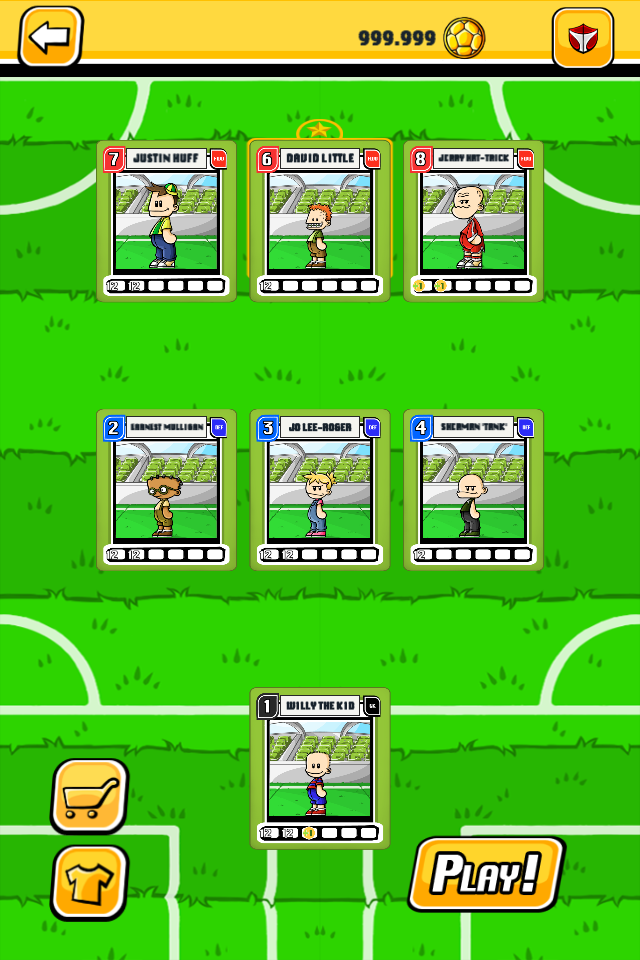
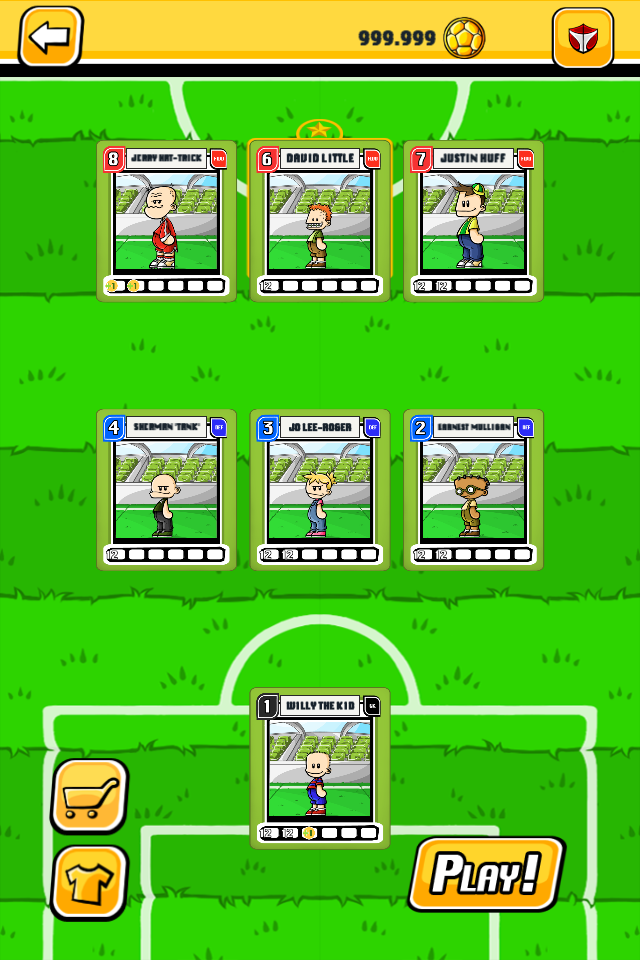
fix(details): perfect center circle pitch mirroring, authentic 8-6-7/4-3-2 formation slots, authentic column-by-column locked/hireable roster grid, and clean duel totals

diff --git a/Assets/Scripts/DiceSoccerBootstrap.cs b/Assets/Scripts/DiceSoccerBootstrap.cs
@@ -115,10 +115,6 @@ namespace DiceSoccer
             CreateCanvas();
             ApplySafeArea();
             LoadCareerProgress();
-            if (PlayerPrefs.GetInt("diceSoccer.allUnlocked", 0) == 0)
-            {
-                UnlockAllContent(false);
-            }
             ShowHome();
         }
 
@@ -1001,6 +997,13 @@ namespace DiceSoccer
             boneDeco.preserveAspect = true;
             boneDeco.raycastTarget = false;
 
+            var boneDeco2 = AddResourceImage("BottomBoneDeco", "Original/sprites/Season0Field1(1.1)/Object3",
+                _fieldPitchRoot, new Vector2(0.5f, 0.5f), new Vector2(0.5f, 0.5f));
+            boneDeco2.rectTransform.anchoredPosition = new Vector2(-140f, -220f);
+            boneDeco2.rectTransform.sizeDelta = new Vector2(48f, 26f);
+            boneDeco2.preserveAspect = true;
+            boneDeco2.raycastTarget = false;
+
             // Away goal area props (right side):
             var awaySkullDeco = AddResourceImage("AwaySkullDeco", "Original/sprites/Season0Field1(1.1)/Object11",
                 _fieldPitchRoot, new Vector2(0.5f, 0.5f), new Vector2(0.5f, 0.5f));
@@ -1058,9 +1061,6 @@ namespace DiceSoccer
             _homeTotalText.rectTransform.sizeDelta = new Vector2(90f, 70f);
             _homeTotalText.fontStyle = FontStyle.Bold;
             _homeTotalText.alignment = TextAnchor.MiddleCenter;
-            var hOutline = _homeTotalText.gameObject.AddComponent<Outline>();
-            hOutline.effectColor = Color.white;
-            hOutline.effectDistance = new Vector2(2.5f, -2.5f);
             _homeTotalText.enabled = false;
 
             _awayTotalText = AddText("", _field, 50, new Color32(50, 45, 40, 255),
@@ -1068,9 +1068,6 @@ namespace DiceSoccer
             _awayTotalText.rectTransform.sizeDelta = new Vector2(90f, 70f);
             _awayTotalText.fontStyle = FontStyle.Bold;
             _awayTotalText.alignment = TextAnchor.MiddleCenter;
-            var aOutline = _awayTotalText.gameObject.AddComponent<Outline>();
-            aOutline.effectColor = Color.white;
-            aOutline.effectDistance = new Vector2(2.5f, -2.5f);
             _awayTotalText.enabled = false;
 
             // Authentic Buff Belt Tray (matching media_1792421110113_45d0305f.png):
@@ -1865,16 +1862,17 @@ namespace DiceSoccer
             EnsureLineupLoaded();
             ClearCanvas();
 
-            // Vertical Soccer Pitch Backdrop (GreenField left mirrored + right normal)
+            // Vertical Soccer Pitch Backdrop (GreenField left normal + right mirrored horizontally)
             var pitchLeft = AddResourceImage("PitchLeft", "Original/images/GreenField", _canvas.transform,
                 new Vector2(0f, 0f), new Vector2(0.5f, 0.92f));
             pitchLeft.preserveAspect = false;
-            pitchLeft.rectTransform.localScale = new Vector3(-1f, 1f, 1f);
+            pitchLeft.rectTransform.localScale = Vector3.one;
             pitchLeft.raycastTarget = false;
 
             var pitchRight = AddResourceImage("PitchRight", "Original/images/GreenField", _canvas.transform,
-                new Vector2(0.5f, 0.5f - 0.5f), new Vector2(1f, 0.92f));
+                new Vector2(0.5f, 0f), new Vector2(1f, 0.92f));
             pitchRight.preserveAspect = false;
+            pitchRight.rectTransform.localScale = new Vector3(-1f, 1f, 1f);
             pitchRight.raycastTarget = false;
 
             _safeArea.SetAsLastSibling();
@@ -1883,18 +1881,18 @@ namespace DiceSoccer
             var lineup = _catalog.ResolveLineup(_lineupIds);
 
             // 1-3-3 Formation Positions (matching media_1792421110223_f7c56db8.png):
-            // Top row: 3 Forwards (Slots 4, 5, 6)
-            // Middle row: 3 Defenders / Midfielders (Slots 1, 2, 3)
-            // Bottom row: 1 Goalkeeper (Slot 0)
+            // Top row: 3 Forwards (Left #8 Jerry, Center #6 David inside StrikerStar, Right #7 Justin)
+            // Middle row: 3 Defenders (Left #4 Sherman, Center #3 Jo, Right #2 Ernest)
+            // Bottom row: 1 Goalkeeper (Center #1 Willy)
             var slotPositions = new Vector2[]
             {
-                new Vector2(0.50f, 0.20f), // Slot 0: GK
-                new Vector2(0.26f, 0.49f), // Slot 1: Left DEF
-                new Vector2(0.50f, 0.49f), // Slot 2: Center DEF
-                new Vector2(0.74f, 0.49f), // Slot 3: Right DEF
-                new Vector2(0.26f, 0.77f), // Slot 4: Left FWD
-                new Vector2(0.50f, 0.77f), // Slot 5: Center Striker (Striker Star)
-                new Vector2(0.74f, 0.77f), // Slot 6: Right FWD
+                new Vector2(0.50f, 0.20f), // Slot 0: GK (#1 Willy The Kid)
+                new Vector2(0.74f, 0.49f), // Slot 1: Right DEF (#2 Ernest Milligan)
+                new Vector2(0.50f, 0.49f), // Slot 2: Center DEF (#3 Jo Lee-Roger)
+                new Vector2(0.26f, 0.49f), // Slot 3: Left DEF (#4 Sherman Tank)
+                new Vector2(0.74f, 0.77f), // Slot 4: Right FWD (#7 Justin Huff)
+                new Vector2(0.50f, 0.77f), // Slot 5: Center Striker (#6 David Little, Striker Star)
+                new Vector2(0.26f, 0.77f), // Slot 6: Left FWD (#8 Jerry Hat-trick)
             };
 
             var cardHalfWidth = 0.125f;
@@ -2007,16 +2005,19 @@ namespace DiceSoccer
                 }
             }
 
-            // 2. Pagination: 4 cards per page (2 columns x 2 rows)
+            // Sort candidates by Player ID (matching authentic Cocos2d catalog ordering: 5, 13, 21, 29, 37...)
+            candidates.Sort((a, b) => a.id.CompareTo(b.id));
+
+            // 2. Pagination: 4 cards per page (2 columns x 2 rows, filled column-by-column)
             const int cardsPerPage = 4;
             int totalPages = Mathf.Max(1, Mathf.CeilToInt(candidates.Count / (float)cardsPerPage));
             _deckPage = Mathf.Clamp(_deckPage, 0, totalPages - 1);
 
             Vector2[] cardCenters = {
-                new Vector2(0.30f, 0.62f), // Top Left
-                new Vector2(0.70f, 0.62f), // Top Right
-                new Vector2(0.30f, 0.33f), // Bottom Left
-                new Vector2(0.70f, 0.33f)  // Bottom Right
+                new Vector2(0.30f, 0.62f), // Column 1 Top (matching #5 in media_1792421110155_320ad894.png)
+                new Vector2(0.30f, 0.33f), // Column 1 Bottom (matching #13 in media_1792421110155_320ad894.png)
+                new Vector2(0.70f, 0.62f), // Column 2 Top (matching #21 in media_1792421110155_320ad894.png)
+                new Vector2(0.70f, 0.33f)  // Column 2 Bottom (matching #29 in media_1792421110155_320ad894.png)
             };
             float cardHalfW = 0.180f;
             float cardHalfH = 0.132f;

diff --git a/Assets/Editor/CaptureScreenshots.cs b/Assets/Editor/CaptureScreenshots.cs
@@ -21,6 +21,8 @@ namespace DiceSoccer.Editor
             {
                 PlayerPrefs.SetInt($"diceSoccer.tutorial.{i}", 1);
             }
+            PlayerPrefs.DeleteKey("diceSoccer.allUnlocked");
+            PlayerPrefs.DeleteKey("diceSoccer.roster");
             PlayerPrefs.Save();
 
             var awakeMethod = typeof(DiceSoccerBootstrap).GetMethod("Awake", BindingFlags.Instance | BindingFlags.NonPublic);
@@ -153,8 +155,15 @@ namespace DiceSoccer.Editor
             // 5b. Kit Selection
             try { Call("ShowKitSelection"); SaveScreen("KitSelection"); } catch (Exception e) { Debug.LogWarning(e); }
 
-            // 5c. Player Picker / Deck Roster
-            try { Call("ShowPlayerPicker", 0); SaveScreen("PlayerPicker"); } catch (Exception e) { Debug.LogWarning(e); }
+            // 5c. Player Picker / Deck Roster (MID tab matching media_1792421110155_320ad894.png)
+            try
+            {
+                var deckFilterField = typeof(DiceSoccerBootstrap).GetField("_deckCategoryFilter", BindingFlags.Instance | BindingFlags.NonPublic);
+                deckFilterField?.SetValue(bootstrap, 1);
+                Call("ShowPlayerPicker", -1);
+                SaveScreen("PlayerPicker");
+            }
+            catch (Exception e) { Debug.LogWarning(e); }
 
             // 6. Hiring
             try { Call("ShowHiring"); SaveScreen("Hiring"); } catch (Exception e) { Debug.LogWarning(e); }
